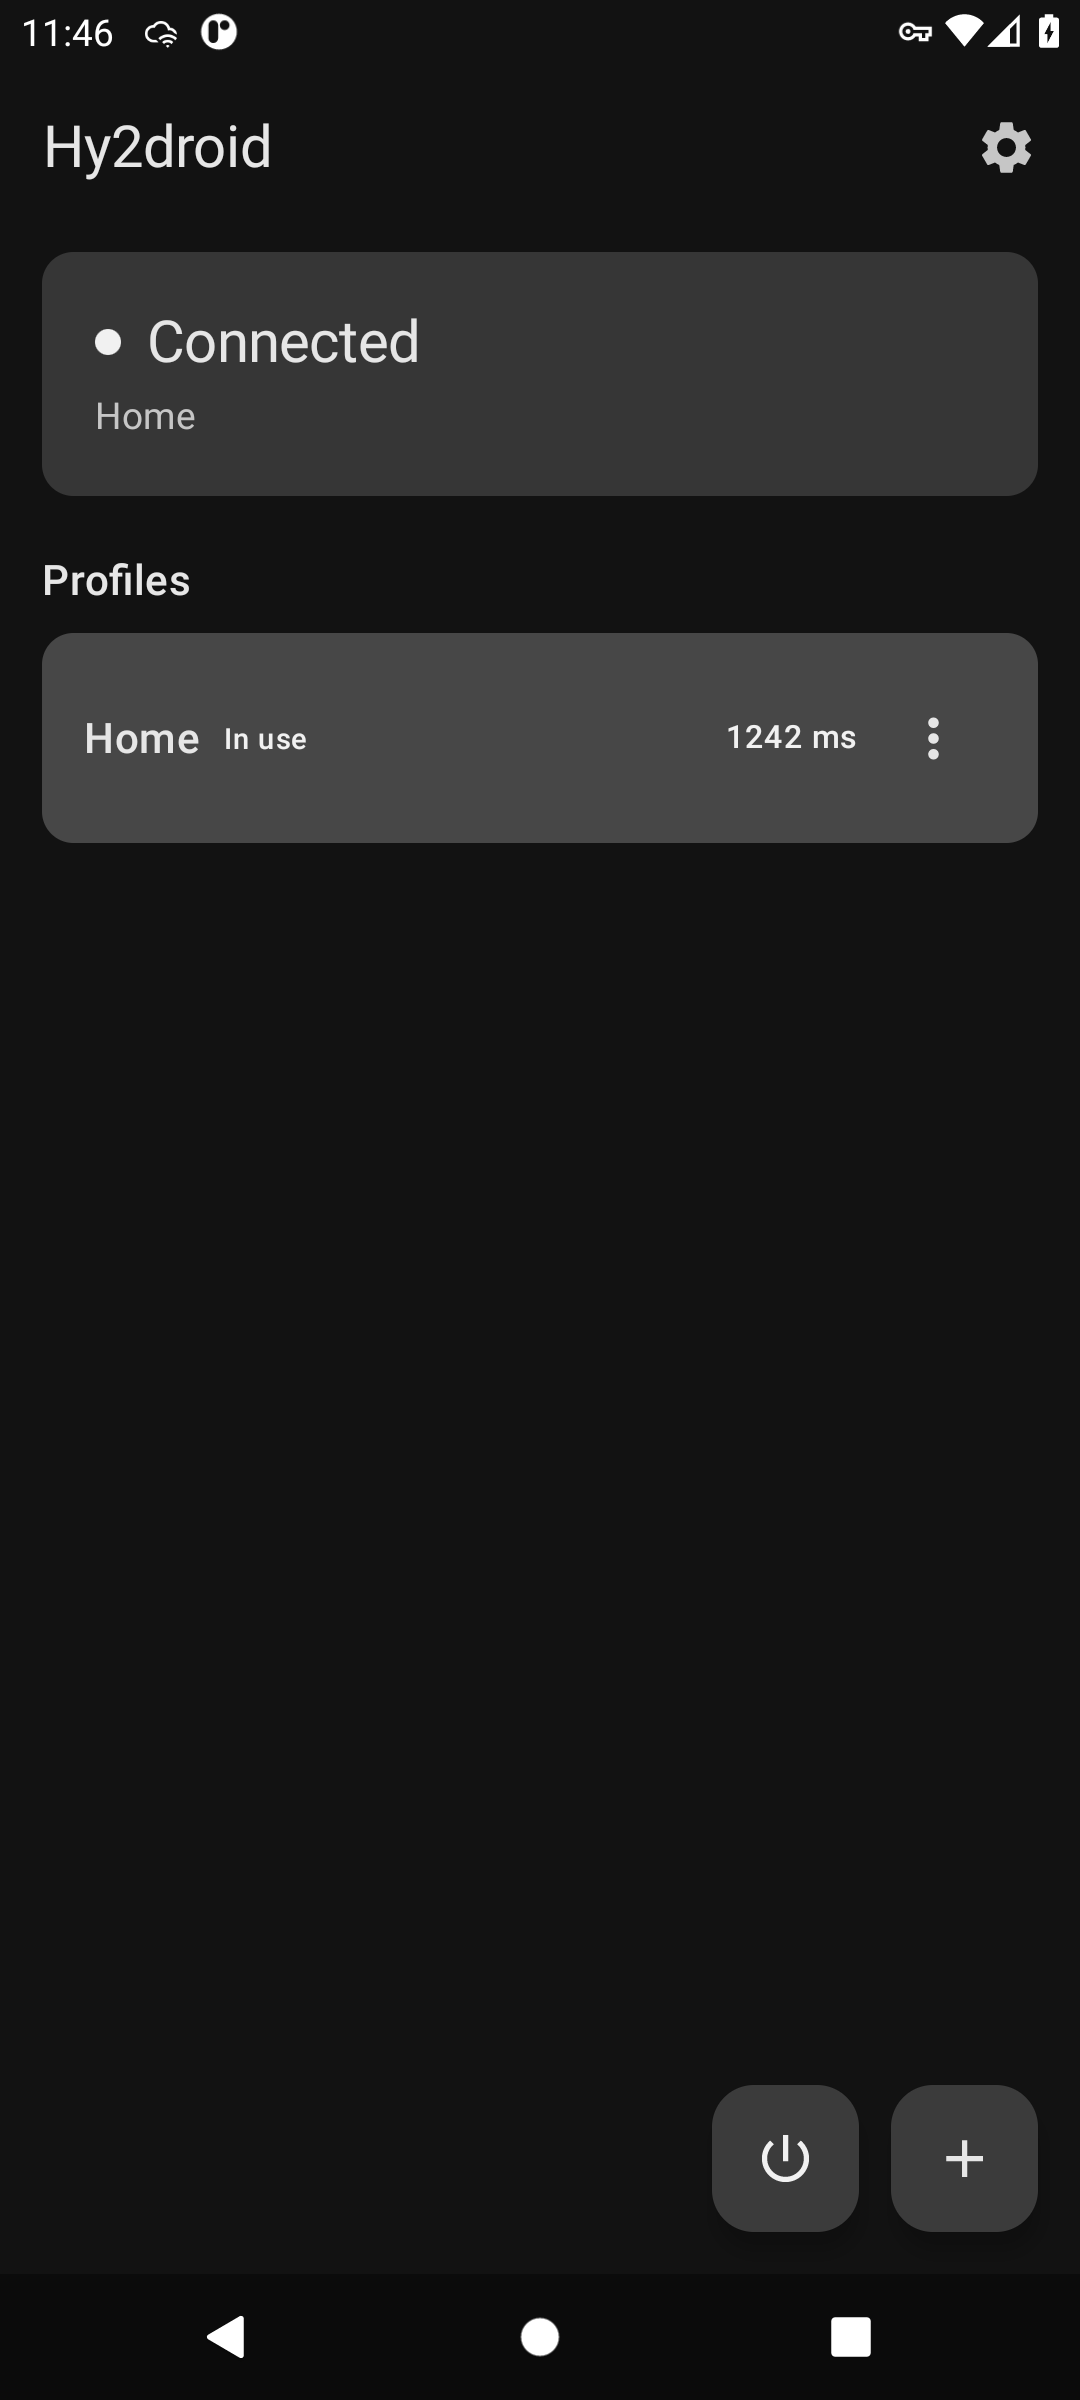
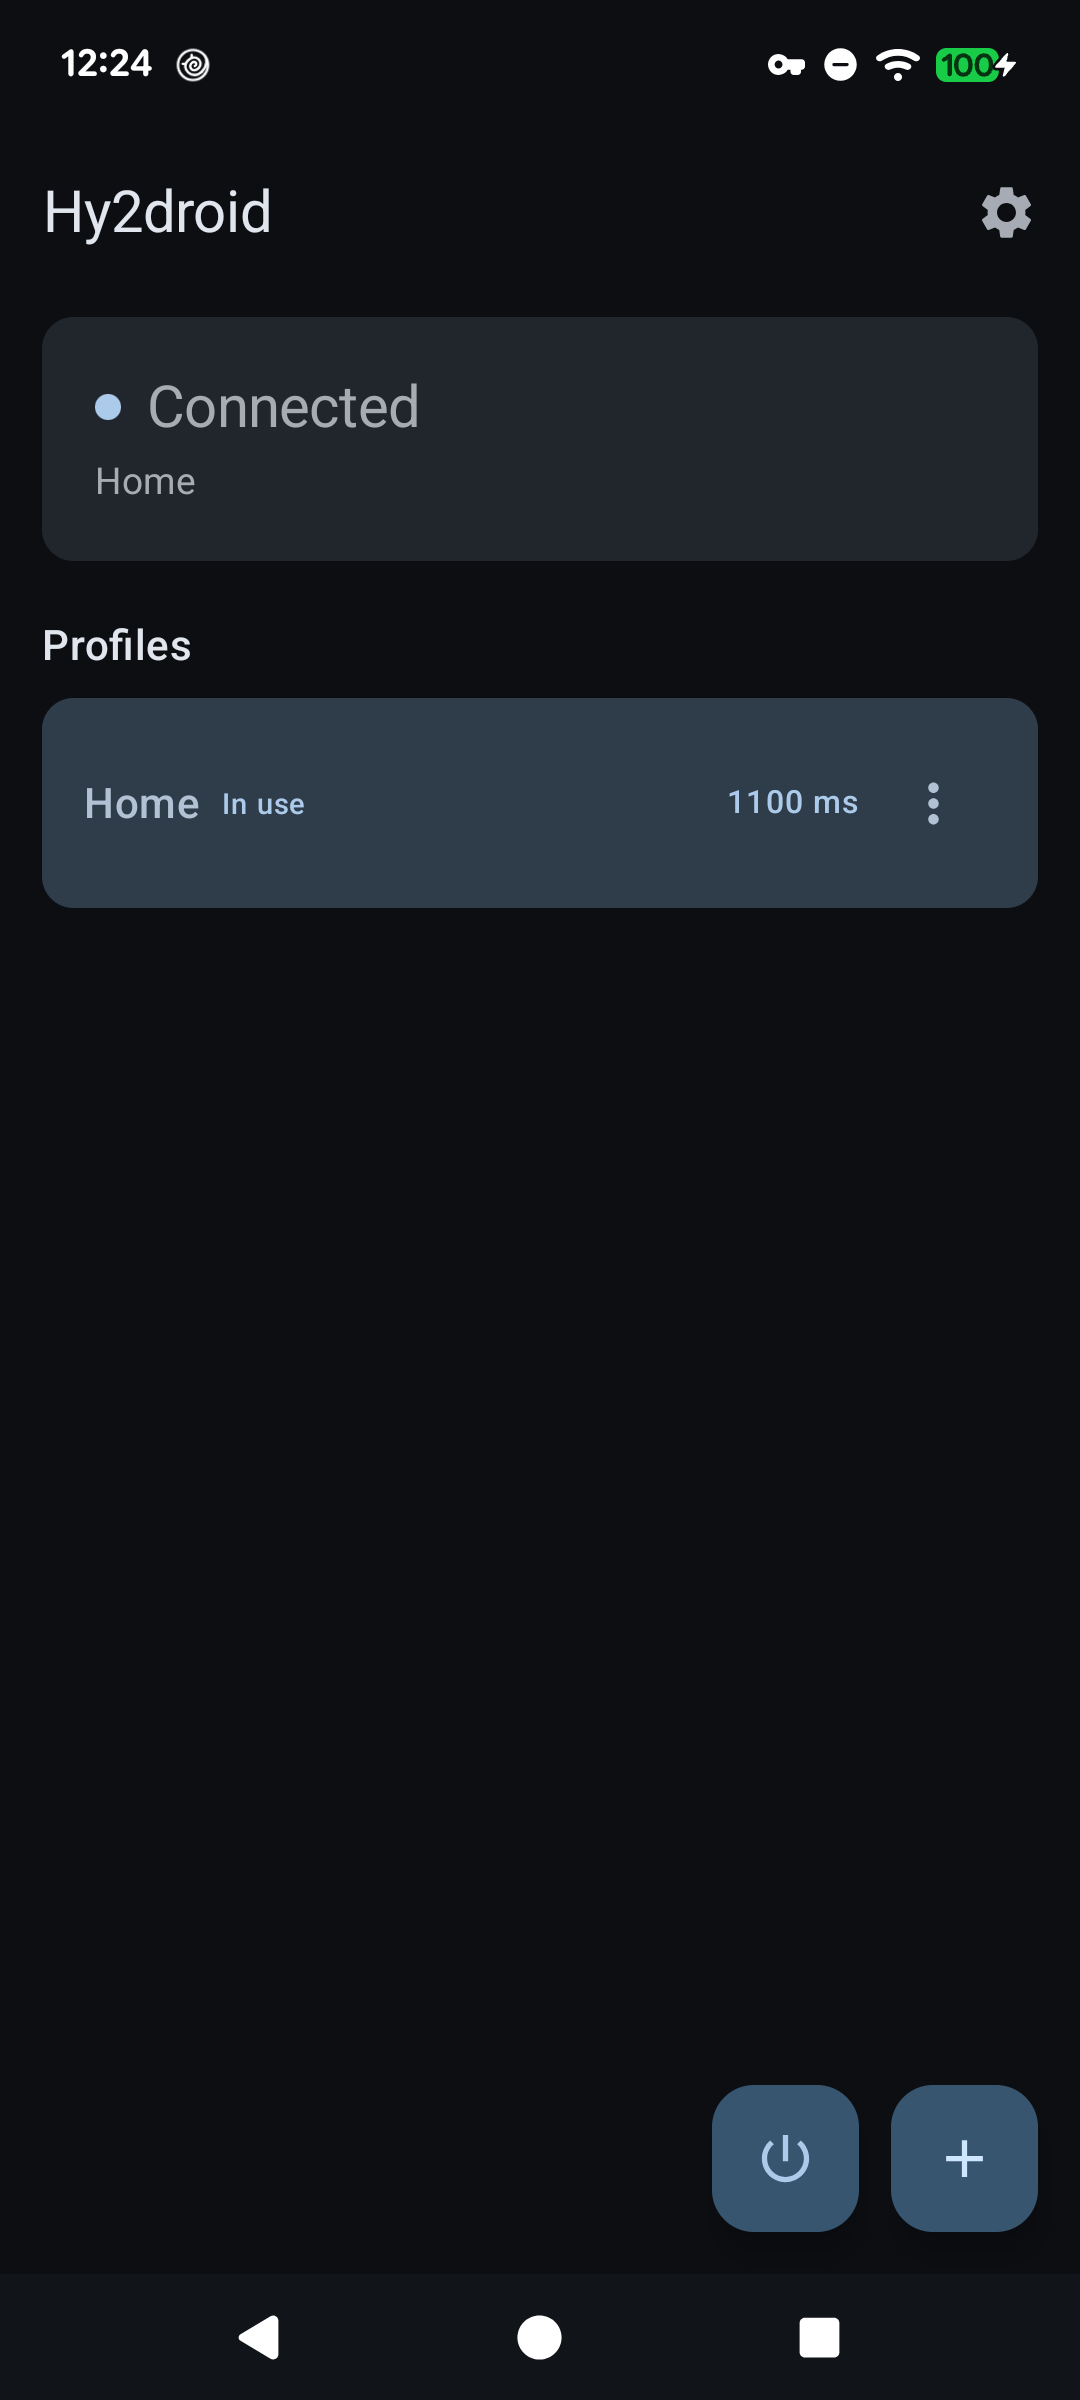
docs: replace the screenshots with real-device captures
Both images now come from a Pixel 6 on Android 17, so the docs finally show
the screen the current build renders: the home bar has only the settings
button, and Settings shows Advanced as one collapsed row instead of the
old inline buffer and path-MTU entries. Latency in the alt text follows the
new capture (1100 ms).

diff --git a/README.md b/README.md
@@ -24,7 +24,7 @@ under AGPL-3.0. You need an Android 11+ device and a Hysteria 2 server that you
 supply yourself.
 
 <p>
-  <img src="screenshots/s1.png" width="32%" alt="Hy2droid home screen: a Connected status card naming the profile Home, above a Profiles list where Home is marked In use with a 1242 ms latency reading, and the power and add-profile buttons at the bottom right.">
+  <img src="screenshots/s1.png" width="32%" alt="Hy2droid home screen: a Connected status card naming the profile Home, above a Profiles list where Home is marked In use with a 1100 ms latency reading, and the power and add-profile buttons at the bottom right.">
   <img src="screenshots/s2.png" width="32%" alt="Hy2droid settings screen: an Appearance section with Dynamic color, Show server address and Live traffic, then a Network section with Split tunneling, Blocked traffic, Bypass local network and Tunnel MTU, under the note that changes apply the next time you connect.">
 </p>
 
